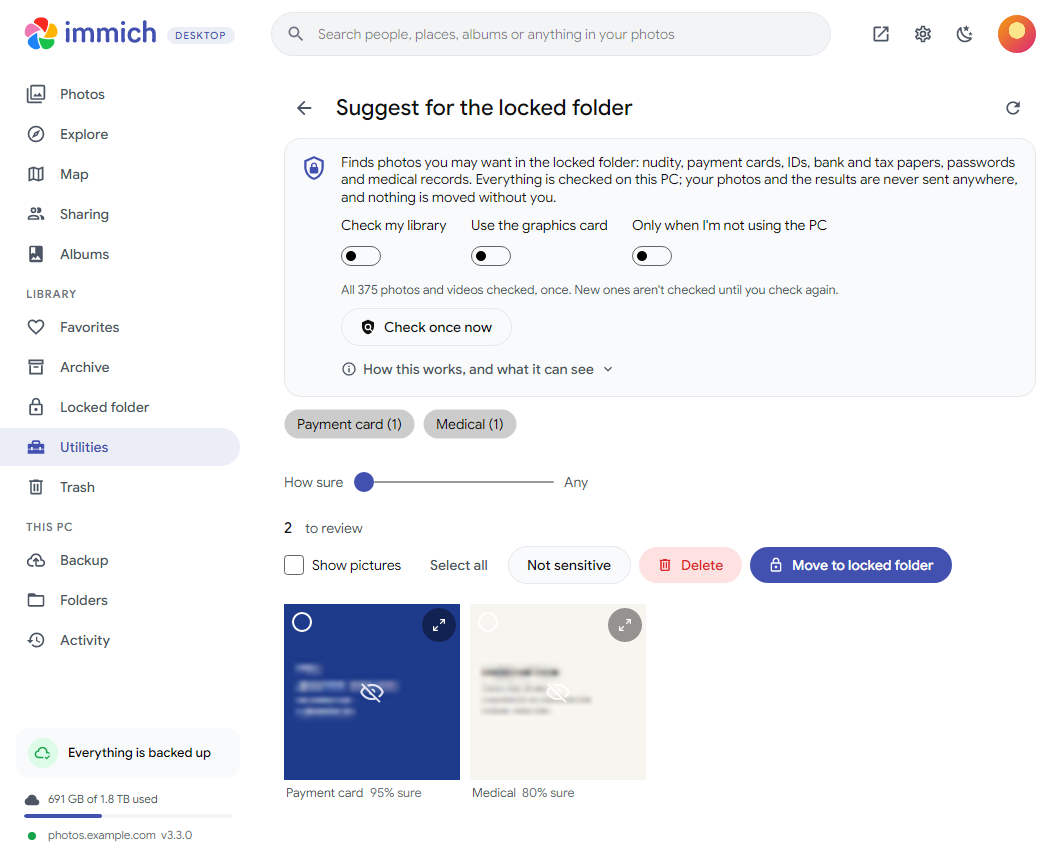
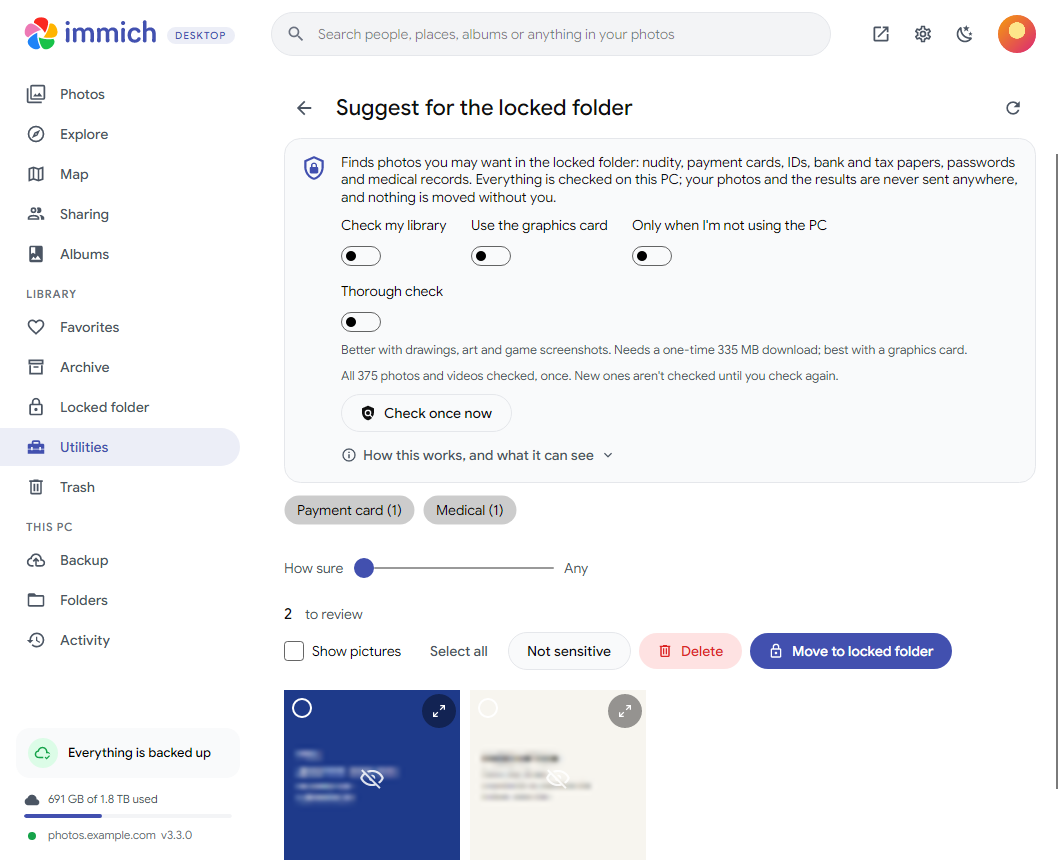
Notices and CONTRIBUTING describe the new privacy models; fresh privacy screenshot
NudeNet (AGPL-3.0), LAION's CLIP-based NSFW detector (MIT) and the on-request CLIP download
(MIT) replace the NSFWJS entry.

diff --git a/THIRD-PARTY-NOTICES.md b/THIRD-PARTY-NOTICES.md
@@ -15,14 +15,45 @@ unmodified copy of LibVLC (from the `VideoLAN.LibVLC.Windows` package) as separa
 The models in `Models/` run only on this PC through [ONNX Runtime](https://onnxruntime.ai)
 (Microsoft, MIT license; on Windows with DirectML, Microsoft's redistributable GPU library).
 
-### NSFWJS MobileNetV2 model (`nsfw-mobilenet-v2.onnx`)
+### NudeNet 320n detector (`nudenet-320n.onnx`)
 
-Converted from the TensorFlow.js model in [NSFWJS](https://github.com/infinitered/nsfwjs) with
-`tools/models/nsfwjs_to_onnx.py` (the weights are unchanged).
+The `320n.onnx` file from [NudeNet](https://github.com/notAI-tech/NudeNet)'s v3.4-weights release, unchanged.
+Licensed under the GNU Affero General Public License v3.0, the same license as this app (see [LICENSE](LICENSE)).
+Copyright (c) notAI-tech. It is based on Ultralytics YOLOv8 (AGPL-3.0).
+
+### LAION CLIP-based NSFW detector (`nsfw-clip-b32-head.bin`)
+
+The ViT-B/32 detector from [LAION-AI/CLIP-based-NSFW-Detector](https://github.com/LAION-AI/CLIP-based-NSFW-Detector),
+exported to plain weights with `tools/models/laion_nsfw_head.py` (the weights are unchanged).
 
 MIT License
 
-Copyright (c) 2019 Infinite Red, Inc.
+Copyright (c) 2022 Christoph Schuhmann
+
+Permission is hereby granted, free of charge, to any person obtaining a copy of this software and
+associated documentation files (the "Software"), to deal in the Software without restriction,
+including without limitation the rights to use, copy, modify, merge, publish, distribute,
+sublicense, and/or sell copies of the Software, and to permit persons to whom the Software is
+furnished to do so, subject to the following conditions:
+
+The above copyright notice and this permission notice shall be included in all copies or
+substantial portions of the Software.
+
+THE SOFTWARE IS PROVIDED "AS IS", WITHOUT WARRANTY OF ANY KIND, EXPRESS OR IMPLIED, INCLUDING BUT
+NOT LIMITED TO THE WARRANTIES OF MERCHANTABILITY, FITNESS FOR A PARTICULAR PURPOSE AND
+NONINFRINGEMENT. IN NO EVENT SHALL THE AUTHORS OR COPYRIGHT HOLDERS BE LIABLE FOR ANY CLAIM, DAMAGES
+OR OTHER LIABILITY, WHETHER IN AN ACTION OF CONTRACT, TORT OR OTHERWISE, ARISING FROM, OUT OF OR IN
+CONNECTION WITH THE SOFTWARE OR THE USE OR OTHER DEALINGS IN THE SOFTWARE.
+
+### CLIP ViT-B/32 image model (`clip-vit-b32-visual.onnx`, downloaded on request)
+
+Not bundled. Only when the thorough check is turned on, the app downloads Immich's published copy
+([immich-app/ViT-B-32__openai](https://huggingface.co/immich-app/ViT-B-32__openai), `visual/model.onnx`) and checks its
+size and SHA-256 before using it. The model is [OpenAI CLIP](https://github.com/openai/CLIP).
+
+MIT License
+
+Copyright (c) 2021 OpenAI
 
 Permission is hereby granted, free of charge, to any person obtaining a copy of this software and
 associated documentation files (the "Software"), to deal in the Software without restriction,

diff --git a/CONTRIBUTING.md b/CONTRIBUTING.md
@@ -29,7 +29,7 @@ Note that the upstream Immich project has its own, stricter policy on LLM-genera
 
 Smart search, face recognition, duplicate detection, and similar features are performed by your Immich server, not by this app.
 
-The one exception is the optional **Suggest for the locked folder** utility, which is off until you turn it on. It bundles three small models and runs them entirely on your PC with [ONNX Runtime](https://onnxruntime.ai) (MIT): the [NSFWJS](https://github.com/infinitered/nsfwjs) MobileNetV2 nudity classifier (MIT) and the [PaddleOCR](https://github.com/PaddlePaddle/PaddleOCR) PP-OCRv4 text detection and recognition models (Apache 2.0). Nothing it sees or finds leaves your PC; see [THIRD-PARTY-NOTICES.md](THIRD-PARTY-NOTICES.md) for details. Changes to this feature must keep it fully on-device.
+The one exception is the optional **Suggest for the locked folder** utility, which is off until you turn it on. It runs its models entirely on your PC with [ONNX Runtime](https://onnxruntime.ai) (MIT): the bundled [NudeNet](https://github.com/notAI-tech/NudeNet) 320n nudity detector (AGPL-3.0), [LAION's CLIP-based NSFW detector](https://github.com/LAION-AI/CLIP-based-NSFW-Detector) (MIT) and the [PaddleOCR](https://github.com/PaddlePaddle/PaddleOCR) PP-OCRv4 text detection and recognition models (Apache 2.0), plus, only if you turn on the thorough check, [OpenAI CLIP](https://github.com/openai/CLIP) ViT-B/32 (MIT), downloaded once from Immich's published copy and verified by its SHA-256. Nothing it sees or finds leaves your PC; see [THIRD-PARTY-NOTICES.md](THIRD-PARTY-NOTICES.md) for details. Changes to this feature must keep it fully on-device.
 
 If you propose adding a model, library, icon, or other third-party asset, state its license in the PR and make sure it is compatible with AGPL-3.0 and, for models, that its terms allow redistribution.
 
